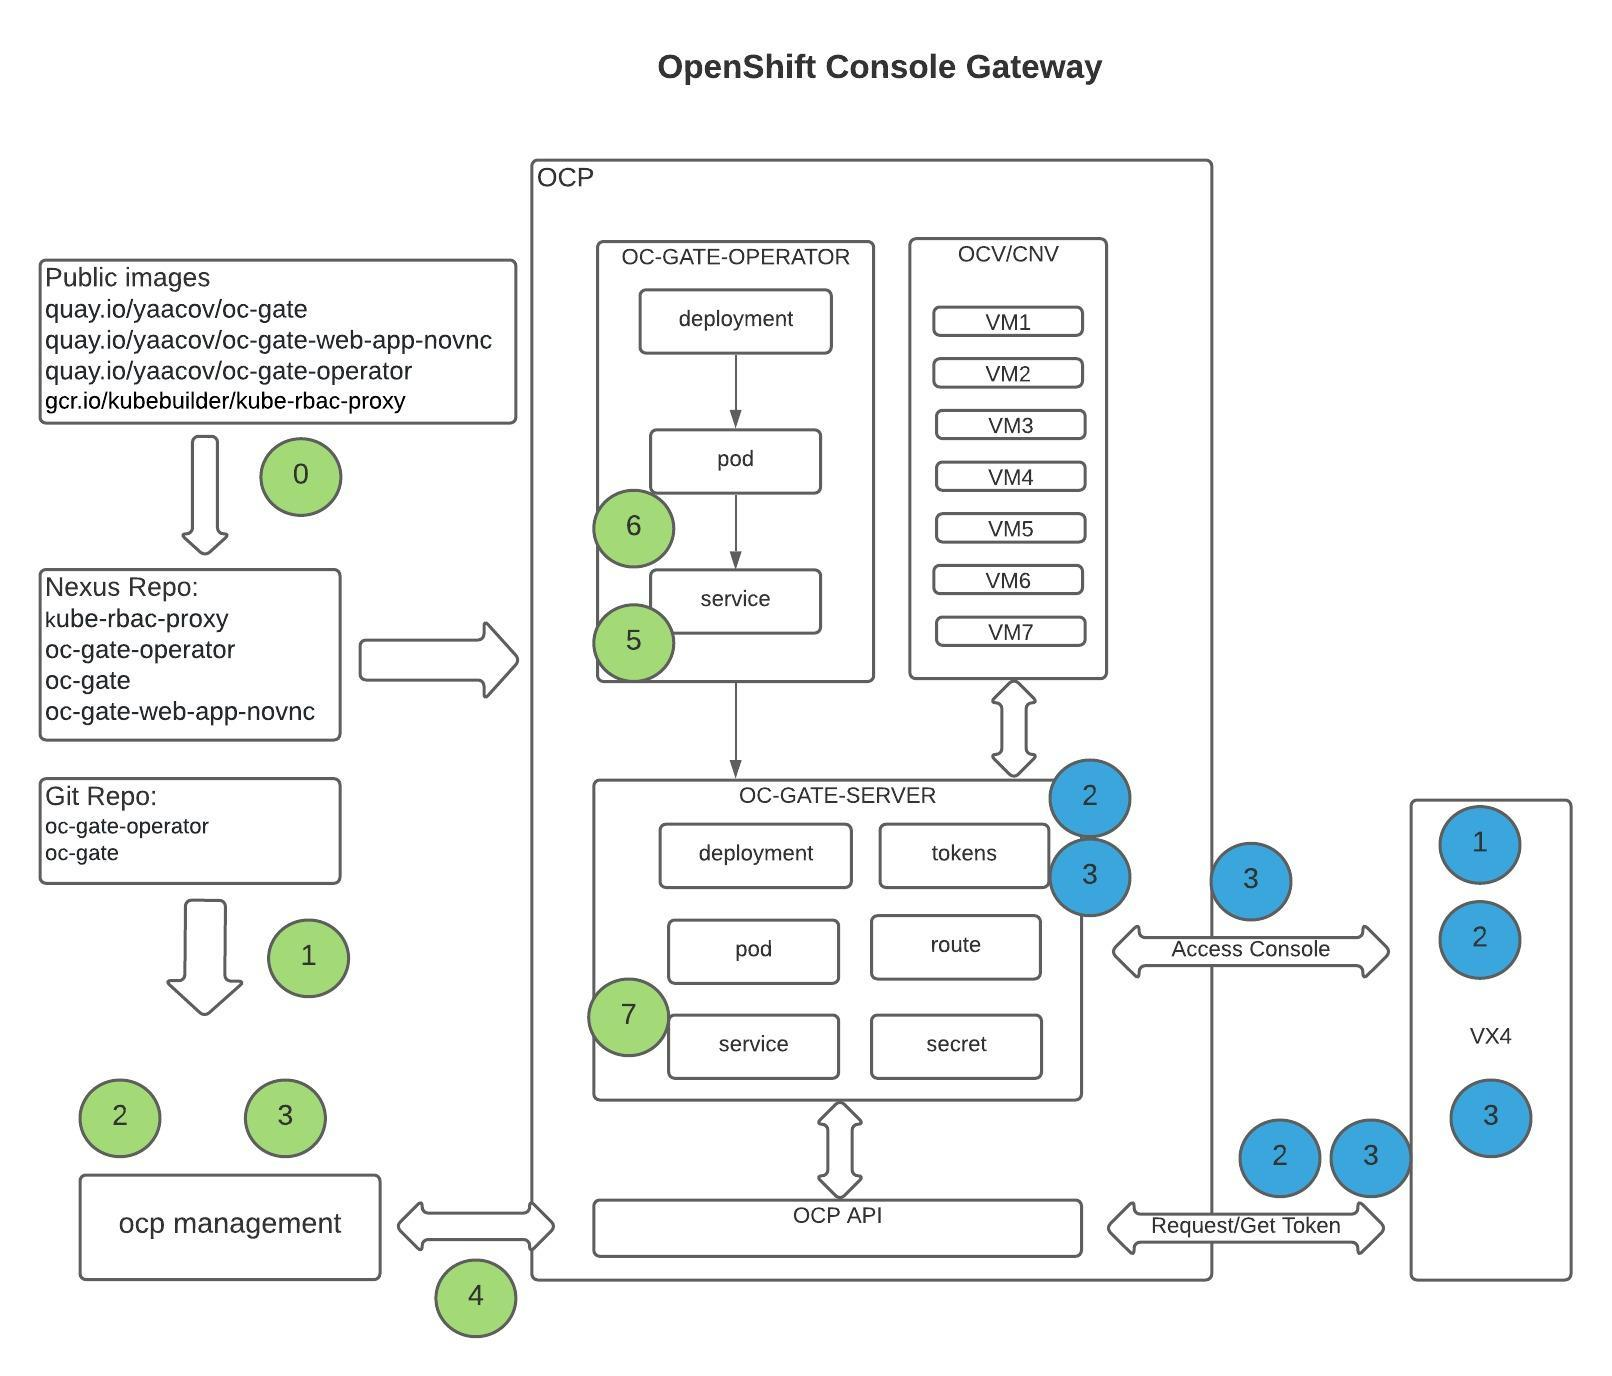
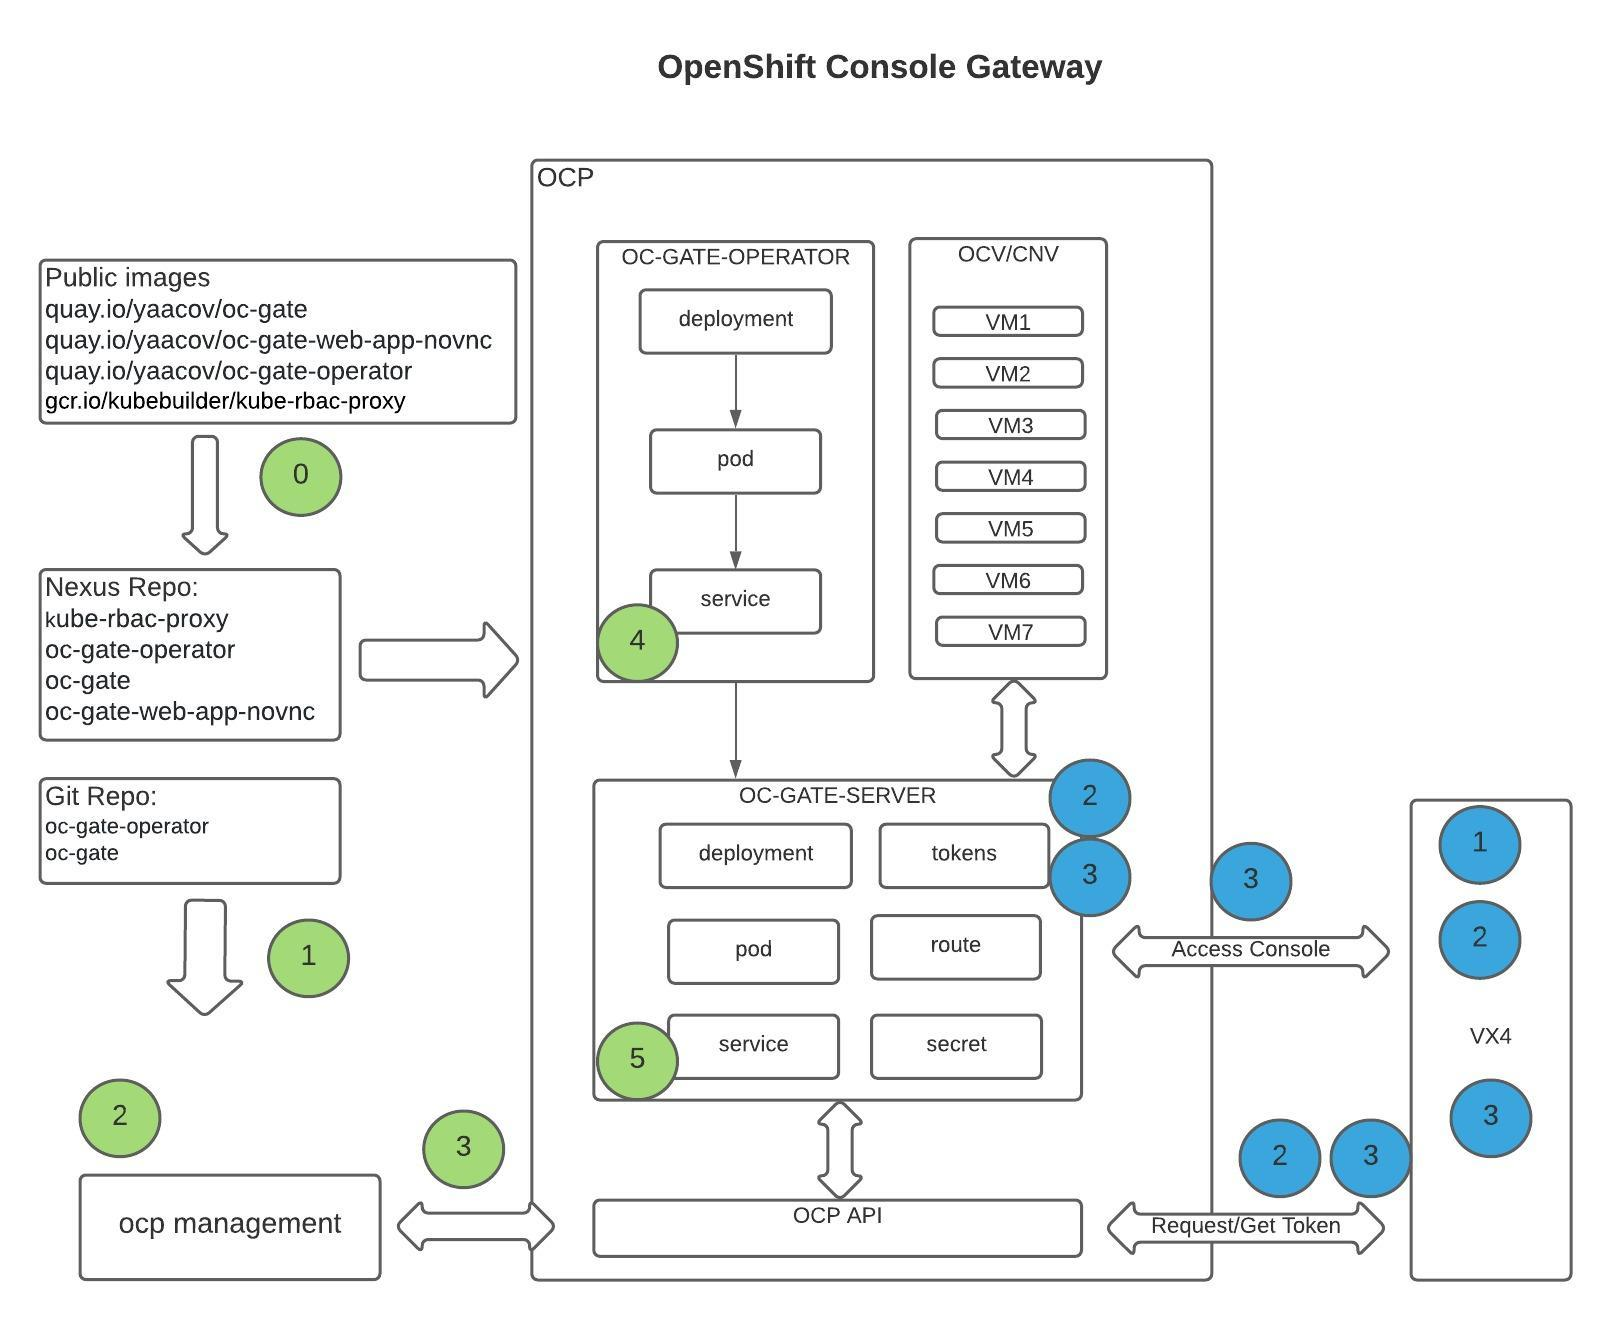
updated jpg and readme

diff --git a/README.md b/README.md
@@ -12,46 +12,8 @@ Receiving objects: 100% (29/29), 11.93 KiB | 5.96 MiB/s, done.
 Resolving deltas: 100% (8/8), done.
 ```
 
-## 2 - Create certs dirs in cloned dir and populate certs with SSL certs:
-$ cd oc-gate-operator
 
-$ mkdir certs
-
-$ openssl genrsa -out certs/key.pem
-``` bash
-Generating RSA private key, 2048 bit long modulus (2 primes)
-..............+++++
-..............................+++++
-e is 65537 (0x010001)
-$
-```
-
-$ openssl req -new -x509 -sha256 -key certs/key.pem -out certs/cert.pem -days 3650
-``` bash
-You are about to be asked to enter information that will be incorporated
-into your certificate request.
-What you are about to enter is what is called a Distinguished Name or a DN.
-There are quite a few fields but you can leave some blank
-For some fields there will be a default value,
-If you enter '.', the field will be left blank.
------
-Country Name (2 letter code) [US]:
-State or Province Name (full name) []:
-Locality Name (eg, city) [Default City]:
-Organization Name (eg, company) [Default Company Ltd]:
-Organizational Unit Name (eg, section) []:
-Common Name (eg, your name or your server's hostname) []:
-Email Address []:
-$
-```
-
-$ ls certs
-``` bash
-cert.pem  key.pem
-$
-```
-
-## 3- Set the following variables with the appropriate image locations:
+## 2- Set the following variables with the appropriate image locations:
 $ kuberbacproxyimage=pool6-infra1.practice.redhat.com:9446/kubebuilder/kube-rbac-proxy:v0.5.0
 
 $ ocgateoperatorimage=pool6-infra1.practice.redhat.com:9446/yaacov/oc-gate-operator
@@ -63,7 +25,7 @@ $ ocgatewebimage=pool6-infra1.practice.redhat.com:9446/yaacov/oc-gate-web-app-no
 $ ocgateroute=oc-gate.apps.ocp4.xxx.xxx
 
 
-## 4- Login into OCP cluster to deploy oc-gate-operator:
+## 3- Login into OCP cluster to deploy oc-gate-operator:
 $ oc login https://api.ocp4.xxx.xxx:6443
 ``` bash
 Authentication required for https://api.ocp4.xxx.xxx:6443 (openshift)
@@ -77,7 +39,8 @@ Using project "default".
 $
 ```
 
-## 5- Inject the image variables into oc-gate-operator.yaml file and create oc-gate-operator objects:
+
+## 4- Inject the image variables into oc-gate-operator.yaml file and create oc-gate-operator objects:
 $ sed -i "s|KUBERBCPROXYIMAGE|$kuberbacproxyimage|g;s|OCGATEOPERATORIMAGE|$ocgateoperatorimage|g" oc-gate-operator.yaml
 
 $ oc create -f oc-gate-operator.yaml
@@ -98,23 +61,8 @@ service/oc-gate-operator-controller-manager-metrics-service created
 deployment.apps/oc-gate-operator-controller-manager created
 ```
 
-## 6- View resources created in oc-gate-operator project:
-$ oc get all -n oc-gate-operator
-``` bash
-NAME                                                      READY   STATUS    RESTARTS   AGE
-pod/oc-gate-operator-controller-manager-566d6c44d-pmw7j   2/2     Running   1          10m
 
-NAME                                                          TYPE        CLUSTER-IP      EXTERNAL-IP   PORT(S)    AGE
-service/oc-gate-operator-controller-manager-metrics-service   ClusterIP   172.30.85.114   <none>        8443/TCP   10m
-
-NAME                                                  READY   UP-TO-DATE   AVAILABLE   AGE
-deployment.apps/oc-gate-operator-controller-manager   1/1     1            1           10m
-
-NAME                                                            DESIRED   CURRENT   READY   AGE
-replicaset.apps/oc-gate-operator-controller-manager-566d6c44d   1         1         1       10m
-```
-
-## 7- Inject the ocgateimage and ocgateroute variables into gateserver.yaml and create the GateServer custom resource:
+## 5- Inject the ocgateimage and ocgateroute variables into gateserver.yaml and create the GateServer custom resource:
 
 $ sed -i "s|OCGATEIMAGE|$ocgateimage|g;s|OCGATEROUTE|$ocgateroute|g;s|OCGATEWEBIMAGE|$ocgatewebimage|g" gateserver.yaml
 
